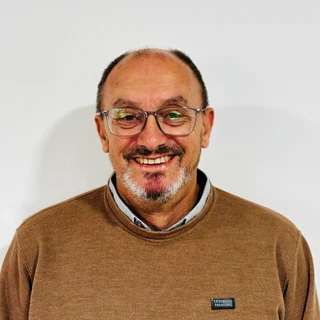
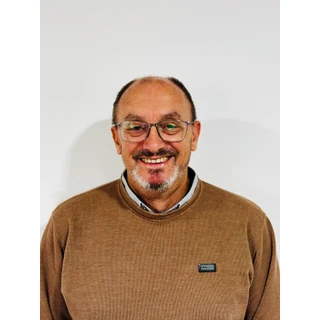
cambios

diff --git a/components/EquipoMinisterialSection.tsx b/components/EquipoMinisterialSection.tsx
@@ -5,7 +5,10 @@ import { MINISTER_LEAD_LQIP, type MinisterSlug } from "../data/ministros";
 import { PdcMinisterPortrait } from "./PdcMinisterPortrait";
 import { Reveal } from "./bethel/Reveal";
 import { PdcPageShell } from "./PdcPageShell";
-import { PdcSectionHeader, pdcPageInnerWithHeroComfort, pdcPageIntroHeaderClass } from "./PdcSectionHeader";
+import { PdcSectionHeader, pdcPageInnerClass } from "./PdcSectionHeader";
+
+/** Aire bajo navbar fijo (+ safe-area en móvil) sin modificar el header global. */
+const equipoPageTopClass = `${pdcPageInnerClass} pt-[calc(2rem+env(safe-area-inset-top,0px))] md:pt-[calc(2.5rem+env(safe-area-inset-top,0px))] lg:pt-[calc(3rem+env(safe-area-inset-top,0px))]`;
 
 export const EQUIPO_FOOTER_ROOT_ID = "equipo-footer-root";
 
@@ -30,7 +33,6 @@ const pastors: Member = {
   slug: "jorge-gabriela",
   displayName: "Jorge y Gabriela Bugueño",
   role: "Pastores generales",
-  objectPosition: "center center",
 };
 
 const PASTORS_EASE = [0.22, 1, 0.36, 1] as const;
@@ -133,14 +135,12 @@ const team: Member[] = [
     slug: "oscar-termini",
     displayName: "Oscar Termini",
     role: "Pastor Ordenado",
-    objectPosition: "center 20%",
   },
   {
     name: "DEBORA BUGUEÑO",
     slug: "debora-bugueno",
     displayName: "Débora Bugueño",
     role: "Ministro Ordenado",
-    objectPosition: "center 22%",
   },
   {
     name: "GUSTAVO BECERRO",
@@ -153,14 +153,12 @@ const team: Member[] = [
     slug: "silvia-taieti",
     displayName: "Silvia Taieti",
     role: "Ministro Ordenado",
-    objectPosition: "center 18%",
   },
   {
     name: "PAOLA VIRRZI",
     slug: "paola-virrzi",
     displayName: "Paola Virrzi",
     role: "Ministro Ordenado",
-    objectPosition: "center 16%",
   },
   {
     name: "DAMIAN MARCORA",
@@ -173,7 +171,6 @@ const team: Member[] = [
     slug: "veronica-martinez",
     displayName: "Verónica Martínez",
     role: "Ministro Ordenado",
-    objectPosition: "center 20%",
   },
 ];
 
@@ -241,7 +238,7 @@ const TeamMemberCard: React.FC<TeamMemberCardProps> = ({
         ${className}`.trim()}
       style={{ transitionDelay: revealed ? `${index * 60}ms` : "0ms" }}
     >
-      <div className="relative mb-2 lg:mb-4">
+      <div className="relative mb-1.5 lg:mb-2">
         <div
           className={`pointer-events-none absolute inset-0 rounded-full ${glowClass} blur-2xl opacity-0 transition duration-500 group-hover:opacity-100 motion-reduce:opacity-0`}
           aria-hidden
@@ -296,13 +293,13 @@ const EquipoMinisterialSection: React.FC = () => {
     target: pastorsBlockRef,
     offset: ["start end", "end start"],
   });
-  const photoParallax = useTransform(scrollYProgress, [0, 1], [22, -22]);
+  const photoParallax = useTransform(scrollYProgress, [0, 1], [12, -12]);
 
   return (
-    <PdcPageShell aria-labelledby="equipo-heading">
-      <div className={pdcPageInnerWithHeroComfort}>
+    <PdcPageShell aria-labelledby="equipo-heading" className="pb-6 md:pb-8">
+      <div className={equipoPageTopClass}>
       <Reveal priority>
-      <header id="equipo-intro" className={pdcPageIntroHeaderClass}>
+      <header id="equipo-intro" className="mb-4 scroll-mt-28 md:mb-5">
         <PdcSectionHeader
           headingId="equipo-heading"
           eyebrow="Quiénes somos"
@@ -314,10 +311,10 @@ const EquipoMinisterialSection: React.FC = () => {
       </header>
       </Reveal>
 
-      <div id="equipo-pastores" className="mb-8 scroll-mt-28 md:mb-10 lg:mb-12">
-        <div className="mx-auto flex max-w-4xl flex-col items-center gap-7 md:flex-row md:items-center md:justify-center md:gap-10 lg:gap-12">
+      <div id="equipo-pastores" className="mb-7 scroll-mt-28 md:mb-9">
+        <div className="mx-auto flex max-w-4xl flex-col items-center gap-6 md:flex-row md:items-center md:justify-center md:gap-8">
           <motion.div
-            className="order-2 max-w-md space-y-3.5 text-center md:order-1 md:space-y-4 md:text-left"
+            className="order-2 max-w-md space-y-3 text-center md:order-1 md:space-y-3.5 md:text-left"
             initial={pastorsPlay ? "visible" : "hidden"}
             animate={pastorsPlay ? "visible" : "hidden"}
           >
@@ -355,7 +352,7 @@ const EquipoMinisterialSection: React.FC = () => {
             />
 
             <div
-              className={`${bodyText} mx-auto max-w-md space-y-3 text-[0.9rem] md:mx-0 md:text-[0.95rem] md:leading-[1.75]`}
+              className={`${bodyText} mx-auto max-w-md space-y-2.5 text-[0.9rem] md:mx-0 md:text-[0.95rem] md:leading-[1.7]`}
             >
               {PASTORS_BIO_LINES.map((line, i) => (
                 <p key={i} className="overflow-hidden">
@@ -376,26 +373,25 @@ const EquipoMinisterialSection: React.FC = () => {
 
           <motion.div
             ref={pastorsBlockRef}
-            className="group relative order-1 w-[min(78vw,17rem)] shrink-0 sm:w-[19rem] md:order-2 md:w-[20rem] lg:w-[22rem]"
+            className="group relative order-1 w-[min(68vw,12.5rem)] shrink-0 sm:w-[13.5rem] md:order-2 md:w-[14.5rem] lg:w-[15.5rem]"
             initial={pastorsPlay ? "visible" : "hidden"}
             animate={pastorsPlay ? "visible" : "hidden"}
             style={reduceMotion ? undefined : { y: photoParallax }}
           >
             <motion.div
               variants={reduceMotion ? fadeOnly(T.glow) : pastorsPhotoGlow}
-              className="pointer-events-none absolute -inset-5 -z-10 rounded-[2.5rem] bg-secondary/20 blur-3xl sm:-inset-7"
+              className="pointer-events-none absolute -inset-4 -z-10 rounded-[2rem] bg-secondary/15 blur-[2.5rem] sm:-inset-5"
               aria-hidden
             />
 
             <motion.div
               variants={reduceMotion ? fadeOnly(T.photo) : pastorsPhotoFrame}
-              className="relative overflow-hidden rounded-[1.5rem] will-change-transform sm:rounded-[1.75rem]"
+              className="relative will-change-transform"
             >
               <PdcMinisterPortrait
                 slug={pastors.slug}
                 displayName={pastors.displayName}
                 variant="lead"
-                objectPosition={pastors.objectPosition}
                 loading="eager"
                 fetchPriority="high"
                 lqip={MINISTER_LEAD_LQIP}
@@ -409,11 +405,6 @@ const EquipoMinisterialSection: React.FC = () => {
                   aria-hidden
                 />
               ) : null}
-
-              <div
-                className="pointer-events-none absolute inset-0 z-[1] bg-gradient-to-t from-[#0e0b08]/35 via-transparent to-white/[0.04]"
-                aria-hidden
-              />
             </motion.div>
           </motion.div>
         </div>
@@ -421,7 +412,7 @@ const EquipoMinisterialSection: React.FC = () => {
 
       <div
         id="equipo-ministros"
-        className="mb-6 scroll-mt-28 border-t border-white/10 pt-6 text-center md:mb-7 md:pt-7 lg:mb-8 lg:pt-8"
+        className="mb-5 scroll-mt-28 border-t border-white/10 pt-6 text-center md:mb-6 md:pt-7"
       >
         <h2 className="font-serif text-2xl text-white md:text-[1.65rem] lg:text-[1.85rem]">Ministros y liderazgo</h2>
         <p className={`${bodyText} mx-auto mt-2.5 max-w-xl text-sm md:text-[0.8125rem] lg:mt-3 lg:text-[0.9rem]`}>
@@ -432,7 +423,7 @@ const EquipoMinisterialSection: React.FC = () => {
       <div
         id="equipo-grid"
         ref={setRevealRef}
-        className="scroll-mt-28 grid grid-cols-2 justify-items-center gap-x-6 gap-y-7 pb-2 md:grid-cols-8 md:gap-x-7 md:gap-y-6 lg:gap-x-8 lg:gap-y-8"
+        className="scroll-mt-28 grid grid-cols-2 justify-items-center gap-x-5 gap-y-5 pb-1 md:grid-cols-8 md:gap-x-6 md:gap-y-5 lg:gap-x-7 lg:gap-y-6"
         role="list"
       >
         {firstRow.map((person, i) => (

diff --git a/components/PdcMinisterPortrait.tsx b/components/PdcMinisterPortrait.tsx
@@ -25,22 +25,22 @@ type PdcMinisterPortraitProps = {
 
 const frameClass: Record<PortraitVariant, string> = {
   team:
-    "relative h-32 w-32 overflow-hidden rounded-full border-2 border-secondary/80 shadow-lg shadow-black/25 transition-[border-color,box-shadow] duration-500 ease-out group-hover:border-secondary group-hover:shadow-2xl group-hover:shadow-black/40 md:h-28 md:w-28 lg:h-40 lg:w-40",
-  /** Marco 1:1: recorte cuadrado para que el bloque entre sin scroll. */
+    "relative h-28 w-28 overflow-hidden rounded-full border-2 border-secondary/80 bg-white shadow-lg shadow-black/25 transition-[border-color,box-shadow] duration-500 ease-out group-hover:border-secondary group-hover:shadow-2xl group-hover:shadow-black/40 md:h-24 md:w-24 lg:h-32 lg:w-32",
+  /** Marco 2:3: retrato recortado sobre el fondo de página (sin recuadro visible). */
   lead:
-    "relative aspect-square w-full overflow-hidden rounded-[1.5rem] border border-white/15 bg-black/20 shadow-[0_24px_70px_-26px_rgba(0,0,0,0.85)] ring-1 ring-white/5 sm:rounded-[1.75rem]",
+    "relative flex aspect-[2/3] w-full items-center justify-center bg-transparent p-2 sm:p-2.5",
 };
 
 const imgClass: Record<PortraitVariant, string> = {
   team:
-    "h-full w-full scale-100 object-cover grayscale transition-[transform,filter] duration-700 ease-out will-change-transform hover:scale-110 group-hover:scale-110 group-hover:grayscale-0",
+    "h-full w-full object-contain object-center grayscale transition-[filter] duration-700 ease-out group-hover:grayscale-0",
   lead:
-    "h-full w-full scale-100 object-cover transition-[transform,filter] duration-[1.1s] ease-out will-change-transform group-hover:scale-[1.03] group-hover:brightness-[1.04]",
+    "max-h-full max-w-full object-contain object-center mix-blend-lighten transition-[filter] duration-[1.1s] ease-out group-hover:brightness-[1.02]",
 };
 
 const intrinsic: Record<PortraitVariant, { width: number; height: number }> = {
   team: { width: 320, height: 320 },
-  lead: { width: 768, height: 768 },
+  lead: { width: 768, height: 1152 },
 };
 
 function PortraitPlaceholder({
@@ -52,14 +52,14 @@ function PortraitPlaceholder({
 }) {
   const size =
     variant === "lead"
-      ? "flex aspect-square w-full flex-col items-center justify-center gap-2 rounded-[1.5rem] border border-dashed border-white/25 bg-white/[0.04] px-4 text-center sm:rounded-[1.75rem]"
-      : "flex h-32 w-32 flex-col items-center justify-center gap-1 rounded-full border-2 border-dashed border-secondary/50 bg-white/[0.04] px-2 text-center md:h-28 md:w-28 lg:h-40 lg:w-40";
-  const icon = variant === "lead" ? "h-14 w-14 md:h-16 md:w-16" : "h-9 w-9";
+      ? "flex aspect-[2/3] w-full flex-col items-center justify-center gap-2 bg-transparent px-4 text-center"
+      : "flex h-28 w-28 flex-col items-center justify-center gap-1 rounded-full border-2 border-dashed border-secondary/50 bg-white px-2 text-center md:h-24 md:w-24 lg:h-32 lg:w-32";
+  const icon = variant === "lead" ? "h-12 w-12 md:h-14 md:w-14" : "h-8 w-8";
   return (
     <div className={size} role="img" aria-label={displayName}>
       <User className={`${icon} text-secondary/60`} strokeWidth={1.5} aria-hidden />
       {variant === "lead" ? (
-        <span className="font-sans text-[0.65rem] font-medium text-white/50">Foto pendiente</span>
+        <span className="font-sans text-[0.65rem] font-medium text-secondary/70">Foto pendiente</span>
       ) : null}
     </div>
   );
@@ -69,7 +69,7 @@ export const PdcMinisterPortrait: React.FC<PdcMinisterPortraitProps> = ({
   slug,
   displayName,
   variant,
-  objectPosition = "center 22%",
+  objectPosition = "center center",
   className = "",
   loading = "lazy",
   fetchPriority,
@@ -103,13 +103,13 @@ export const PdcMinisterPortrait: React.FC<PdcMinisterPortraitProps> = ({
       {lqip ? (
         <div
           aria-hidden
-          className={`absolute inset-0 scale-[1.08] bg-cover bg-center transition-opacity duration-700 ease-out ${
+          className={`absolute inset-0 bg-transparent bg-contain bg-center bg-no-repeat mix-blend-lighten transition-opacity duration-700 ease-out ${
             loaded ? "opacity-0" : "opacity-100"
           }`}
-          style={{ backgroundImage: `url(${lqip})`, filter: "blur(18px)", backgroundPosition: objectPosition }}
+          style={{ backgroundImage: `url(${lqip})`, filter: "blur(14px)", backgroundPosition: objectPosition }}
         />
       ) : null}
-      <picture className="relative block h-full w-full">
+      <picture className="relative flex h-full w-full items-center justify-center">
         <source type="image/webp" srcSet={ministerSrcSet(slug, variant)} sizes={ministerSizes(variant)} />
         <img
           ref={imgRef}

diff --git a/components/Footer.tsx b/components/Footer.tsx
@@ -108,20 +108,60 @@ export const Footer: React.FC = () => {
             <h4 className={sectionTitle}>Horarios</h4>
             <div className={sectionRule} />
 
-            <p className="mb-2 font-sans text-[0.65rem] font-semibold uppercase tracking-[0.18em] text-secondary/90">
-              Reunión general
-            </p>
-            <ul className="space-y-2 text-sm">
-              {horariosReunionGeneral.map((h) => (
-                <li
-                  key={`rg-${h.dia}`}
-                  className="flex justify-between gap-3 rounded-lg border border-white/[0.07] bg-white/[0.04] px-3 py-2 text-stone-400"
-                >
-                  <span>{h.dia}</span>
-                  <span className="shrink-0 font-medium tabular-nums text-[#ebe8e2]">{h.hora}</span>
-                </li>
-              ))}
-            </ul>
+            <div className="flex gap-3">
+              <svg
+                className="mt-0.5 h-5 w-5 shrink-0 text-secondary"
+                fill="none"
+                stroke="currentColor"
+                viewBox="0 0 24 24"
+                aria-hidden
+              >
+                <path
+                  strokeLinecap="round"
+                  strokeLinejoin="round"
+                  strokeWidth={2}
+                  d="M12 8v4l3 3m6-3a9 9 0 11-18 0 9 9 0 0118 0z"
+                />
+              </svg>
+              <div className="min-w-0 space-y-4 text-sm">
+                <div>
+                  <p className="font-sans text-[0.65rem] font-semibold uppercase tracking-[0.18em] text-secondary/90">
+                    Reunión general
+                  </p>
+                  <ul className="mt-1.5 space-y-1.5">
+                    {horariosReunionGeneral
+                      .filter((h) => !h.detalle)
+                      .map((h) => (
+                        <li key={`rg-${h.dia}`} className="text-stone-400">
+                          <span className="text-[#ebe8e2]">{h.dia}</span>
+                          <span className="mt-0.5 block text-[0.8125rem] leading-snug tabular-nums">
+                            {h.hora}
+                          </span>
+                        </li>
+                      ))}
+                  </ul>
+                </div>
+                {horariosReunionGeneral.some((h) => h.detalle) ? (
+                  <div>
+                    <p className="font-sans text-[0.65rem] font-semibold uppercase tracking-[0.18em] text-secondary/90">
+                      Intercesión
+                    </p>
+                    <ul className="mt-1.5 space-y-1.5">
+                      {horariosReunionGeneral
+                        .filter((h) => h.detalle)
+                        .map((h) => (
+                          <li key={`int-${h.dia}`} className="text-stone-400">
+                            <span className="text-[#ebe8e2]">{h.dia}</span>
+                            <span className="mt-0.5 block text-[0.8125rem] leading-snug tabular-nums">
+                              {h.hora}
+                            </span>
+                          </li>
+                        ))}
+                    </ul>
+                  </div>
+                ) : null}
+              </div>
+            </div>
           </div>
 
           <div>

diff --git a/data/ministros.ts b/data/ministros.ts
@@ -34,8 +34,8 @@ export function ministerSrcSet(slug: MinisterSlug, variant: PortraitVariant): st
 
 export function ministerSizes(variant: PortraitVariant): string {
   return variant === "lead"
-    ? "(max-width: 768px) min(78vw, 19rem), 22rem"
-    : "(max-width: 768px) 144px, 160px";
+    ? "(max-width: 768px) min(68vw, 13.5rem), 15.5rem"
+    : "(max-width: 768px) 112px, 128px";
 }
 
 /**
@@ -44,4 +44,4 @@ export function ministerSizes(variant: PortraitVariant): string {
  * `scripts/optimize-ministros-images.mjs` al regenerar.
  */
 export const MINISTER_LEAD_LQIP =
[2 lines of base64/hex data omitted]

diff --git a/components/FloatingScrollButton.tsx b/components/FloatingScrollButton.tsx
@@ -162,7 +162,7 @@ export const FloatingScrollButton: React.FC<FloatingScrollButtonProps> = ({
   const scrollBehavior = reduceMotion ? "auto" : "smooth";
 
   const handleClick = () => {
-    if (footerHideBlend > 0.85 && !fabPinToTop) return;
+    if (footerHideBlend > 0.85) return;
 
     if (fabPinToTop) {
       pendingIdxRef.current = 0;
@@ -207,10 +207,11 @@ export const FloatingScrollButton: React.FC<FloatingScrollButtonProps> = ({
   const suppressOnHeroMobile =
     hideOnFirstSectionBelowSm && currentIdx === 0 && !fabPinToTop;
 
-  const fabHidden = fabPinToTop ? false : footerHideBlend >= 0.995;
-  const fabOpacity = fabPinToTop ? 1 : 1 - footerHideBlend * 0.98;
-  const fabTranslateY = fabPinToTop ? 0 : footerHideBlend * 14;
-  const blockPointer = fabPinToTop ? false : footerHideBlend > 0.42;
+  /** También con «Subir»: no tapar Horarios/Contacto del footer. */
+  const fabHidden = footerHideBlend >= 0.995;
+  const fabOpacity = 1 - footerHideBlend * 0.98;
+  const fabTranslateY = footerHideBlend * 14;
+  const blockPointer = footerHideBlend > 0.42;
 
   const titleKey = `${fabPinToTop ? "top" : "down"}-${navTargetIndex}-${currentIdx}`;
 

diff --git a/components/FormacionLideresSection.tsx b/components/FormacionLideresSection.tsx
@@ -125,7 +125,7 @@ const FormacionLideresSection = () => {
         <Reveal delayMs={60}>
           <div id="formacion-lideres-contenido" className={`${glassCard} ${pdcGlassCardPadding} scroll-mt-28`}>
             <p className={`mx-auto mb-6 max-w-2xl text-center ${pdcBodyLeadClass}`}>{FORMATION_VISION_INTRO}</p>
-
+n
             <div className="mx-auto mb-6 max-w-2xl space-y-2.5">
               {FORMATION_ACCORDION.map((item) => {
                 const open = openAccordion === item.id;

diff --git a/data/celulaPhotos.ts b/data/celulaPhotos.ts
@@ -12,6 +12,13 @@ const celulaFile = (name: string) => `/images/celula/${name}`;
 /** Pool «Así nos reunimos» — public/images/celula/ */
 export const CELULA_PHOTOS: CelulaPhoto[] = [
   {
+    id: "celula-12",
+    slug: "celula12",
+    src: celulaFile("celula12.jpeg"),
+    alt: "Grupo de hombres de diferentes edades en una reunión de Iglesia en casa",
+    caption: "Comunidad",
+  },
+  {
     id: "celula-1",
     slug: "celula1",
     src: celulaFile("celula1.jpeg"),

diff --git a/components/IglesiaEnCasaSection.tsx b/components/IglesiaEnCasaSection.tsx
@@ -112,7 +112,7 @@ const IglesiaEnCasaSection: React.FC = () => {
               className="pdc-btn-on-dark-ghost max-w-none"
             >
               <Images className="relative z-[1] h-5 w-5 shrink-0 text-secondary" aria-hidden />
-              <span className="relative z-[1]">Galería</span>
+              <span className="relative z-[1]">Nosotros</span>
             </button>
           </div>
         </motion.div>

diff --git a/pages/ConexionPage.tsx b/pages/ConexionPage.tsx
@@ -14,7 +14,7 @@ const IEC_SCROLL_SECTIONS: FloatingScrollNavSection[] = [
   },
   {
     id: "iec-comunidad",
-    title: "Galería",
+    title: "Nosotros",
     subtitle: "Así nos reunimos",
   },
   {
